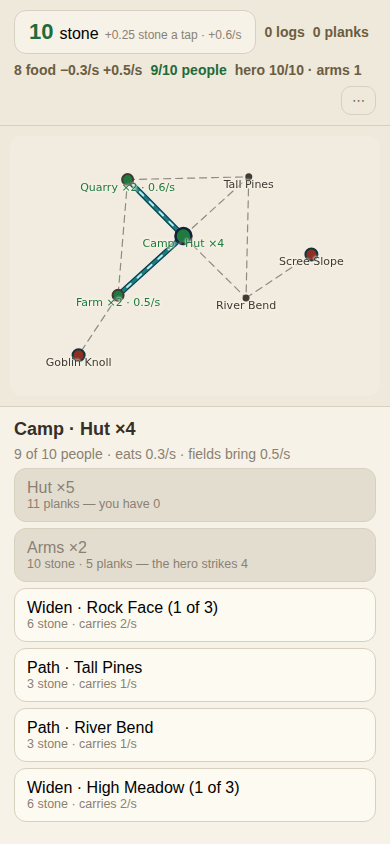
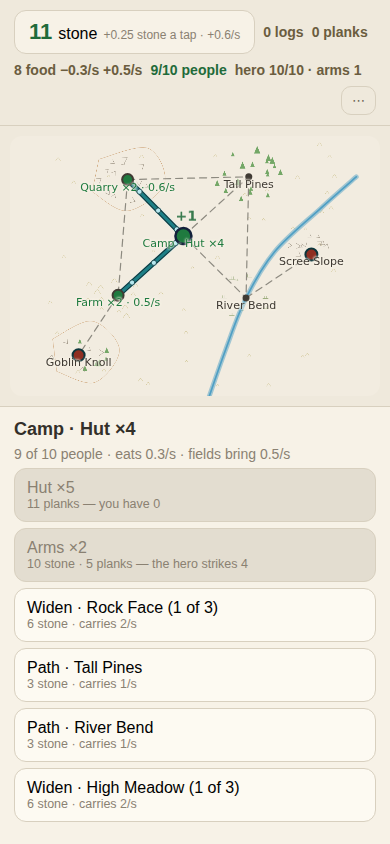
THE LOOK: the valley painted, carriers hauling, a +1 over the camp
Playtest points three, six and seven, one pass:

- ★ THE MAP BACKGROUND IS BACK — src/camp/scenery.ts paints the valley
  with the OLD map's own glyphs (markShapes, exported from terrain.ts:
  the parts shelf doing exactly what the anchor decision says). Trees
  at the pines, crag ticks at the rock faces, rushes at the bend, moor
  grass across the whole floor, two hand-laid height rings, and a LIVE
  river through River Bend - named for it before it was drawn. Baked
  once, blitted ever after, same perf discipline as before.
- ★ CARRIER DOTS haul along every carrying path (Line.carry): little
  porters spaced by load, walking on the same phase clock as the old
  dash - which STAYS in Board.svelte untouched, per the owner's
  keep-the-code instruction. The mana look is gone from the city;
  the code is not.
- ★ +1 POPS are back, floating over the camp: the pulse anchor falls
  back to the 'carry' dot when there is no pin. One a second, cleared
  on pan - the owner's old confetti rules still apply.

EVIDENCE, run and read:
- vitest 710 green (no engine changes - this pass is paint and probe)
- npm run play exit 0, two NEW checks with teeth: 447px of trees and
  1573px of river counted off the live palette, and the carriers'
  centre of mass must MOVE across 700ms (138.5 -> 137.1) - a buried
  crawl once stayed green for weeks because nothing checked motion
- ★ PROVEN RED, restored: decor unplugged -> trees AND river checks
[…]

diff --git a/src/camp/scenery.ts b/src/camp/scenery.ts
@@ -1,0 +1,112 @@
+// WHAT THE VALLEY LOOKS LIKE. Scenery for the city builder's one map —
+// the owner, on the first playtest of the pivot: *"i think our beautiful
+// map background must come back."*
+//
+// The parts shelf in action: the glyphs (trees, crags, moor grass, rushes)
+// are the OLD map's own, imported from terrain.ts — only the ground they
+// scatter on is new. Everything is baked once and blitted, same as before,
+// because five hundred marks a frame stutter on a phone.
+//
+// Nothing here knows the canvas or the game. It is geometry, seeded, so a
+// screenshot of a bug is a screenshot anyone can reproduce.
+import { markShapes, type Mark } from '../game/terrain';
+import type { Shape, Pt } from '../game/shapes';
+import type { Box } from '../game/layout';
+import { SITES } from './engine';
+
+/** The same seeded generator every static scatter in this repo uses. */
+function seeded(seed: number): () => number {
+  let a = seed >>> 0;
+  return () => {
+    a = (a + 0x6d2b79f5) >>> 0;
+    let t = Math.imul(a ^ (a >>> 15), 1 | a);
+    t = (t + Math.imul(t ^ (t >>> 7), 61 | t)) ^ t;
+    return ((t ^ (t >>> 14)) >>> 0) / 4294967296;
+  };
+}
+
+const pad = 60;
+const xs = SITES.map((s) => s.x);
+const ys = SITES.map((s) => s.y);
+export const VALLEY: Box = {
+  x: Math.min(...xs) - pad,
+  y: Math.min(...ys) - pad,
+  w: Math.max(...xs) - Math.min(...xs) + pad * 2,
+  h: Math.max(...ys) - Math.min(...ys) + pad * 2,
+};
+
+/** Each site's ground, for the scatter around it — what you see at the
+ *  pines is trees, exactly as the works you can raise there says. */
+const CLUSTERS: Array<{ at: number; g: Mark['g']; n: number; r: number }> = [
+  { at: 1, g: 'crag', n: 13, r: 30 },   // Rock Face
+  { at: 2, g: 'wood', n: 20, r: 36 },   // Tall Pines
+  { at: 3, g: 'bog', n: 8, r: 26 },     // River Bend's reeds
+  { at: 4, g: 'moor', n: 15, r: 32 },   // High Meadow
+  { at: 5, g: 'crag', n: 11, r: 28 },   // Scree Slope
+  { at: 6, g: 'wood', n: 8, r: 30 },    // Goblin Knoll's dark trees…
+  { at: 6, g: 'crag', n: 7, r: 26 },    // …over broken ground
+];
+
+/** ★ THE RIVER, through River Bend — the site was named for it before it
+ *  was drawn. A wide soft bed under a brighter thread, as ever. */
+const RIVER: Pt[] = [
+  { x: 236, y: VALLEY.y + VALLEY.h + 6 },
+  { x: 262, y: 372 },
+  { x: 292, y: 296 },
+  { x: 334, y: 228 },
+  { x: 402, y: 164 },
+  { x: VALLEY.x + VALLEY.w + 6, y: 118 },
+];
+
+function marks(): Mark[] {
+  const rand = seeded(0xc17b);
+  const out: Mark[] = [];
+  const site = (id: number): Pt => {
+    const s = SITES.find((x) => x.id === id)!;
+    return { x: s.x, y: s.y };
+  };
+  const clearOf = (x: number, y: number): boolean =>
+    SITES.every((s) => Math.hypot(s.x - x, s.y - y) > 16);
+  for (const c of CLUSTERS) {
+    const p = site(c.at);
+    for (let i = 0; i < c.n; i++) {
+      const ang = rand() * Math.PI * 2;
+      const d = 14 + rand() * c.r;
+      const x = p.x + Math.cos(ang) * d;
+      const y = p.y + Math.sin(ang) * d * 0.85;
+      if (!clearOf(x, y)) continue;
+      out.push({ x, y, g: c.g, r: 2.6 + rand() * 2.2, a: rand() * Math.PI });
+    }
+  }
+  // Ambient moor grass across the whole valley, thin, keeping the camp's
+  // clearing and every site's label legible.
+  for (let i = 0; i < 46; i++) {
+    const x = VALLEY.x + 14 + rand() * (VALLEY.w - 28);
+    const y = VALLEY.y + 14 + rand() * (VALLEY.h - 28);
+    if (!clearOf(x, y)) continue;
+    if (Math.hypot(x - 200, y - 205) < 44) continue;   // the clearing
+    out.push({ x, y, g: 'moor', r: 2 + rand() * 1.6, a: 0 });
+  }
+  return out;
+}
+
+/** Two soft height rings — the knoll is a knoll and the rock face stands
+ *  above the camp. Hand-laid; a whole relief grid would be theatre. */
+const RINGS: Shape[] = [
+  { s: 'path', ink: 'relief', w: 1, curve: true, close: true, alpha: 0.9, pts: [
+    { x: 8, y: 356 }, { x: 66, y: 330 }, { x: 106, y: 372 },
+    { x: 70, y: 420 }, { x: 14, y: 404 } ] },
+  { s: 'path', ink: 'relief', w: 1, curve: true, close: true, alpha: 0.9, pts: [
+    { x: 76, y: 92 }, { x: 148, y: 76 }, { x: 172, y: 128 },
+    { x: 118, y: 168 }, { x: 66, y: 140 } ] },
+];
+
+export const CAMP_SHAPES: Shape[] = [
+  { s: 'baked', key: 'valley', box: VALLEY, alpha: 0.85, shapes: [
+    ...RINGS,
+    ...marks().flatMap(markShapes),
+  ] },
+  // The river is cheap and important, so it stays live and crisp.
+  { s: 'path', pts: RIVER, ink: 'river', w: 7, curve: true, alpha: 0.5 },
+  { s: 'path', pts: RIVER, ink: 'river', w: 2.5, curve: true },
+];

diff --git a/src/ui/Board.svelte b/src/ui/Board.svelte
@@ -49,6 +49,10 @@
     /** ★ OVER ITS CAP: the load underlay turns amber — the choke the city
      *  design promises to DRAW, not just count. */
     choked?: boolean;
+    /** ★ CARRIER DOTS instead of the mana dash — the owner: *"maybe we
+     *  introduce the carrier dots which actually bring resources to camp."*
+     *  The dash code below stays; a line opts in. */
+    carry?: boolean;
     /** ★ THE BEND — the road's real course in world coordinates, first point at
      *  this line's `a` end. Absent off the chapter, where stops sit at solved
      *  rather than authored positions and a baked path would join two points
@@ -144,7 +148,8 @@
     // or a widen is running the income to zero anyway.
     const t = performance.now();
     if (t - lastPlusAt < 1000) return;
-    const you = dots.find((d) => d.you);
+    // The pin if there is one; the camp (kind 'carry') where there is not.
+    const you = dots.find((d) => d.you) ?? dots.find((d) => d.kind === 'carry');
     if (!you) return;
     const at = posOf.get(you.id);
     if (!at || plusses.length >= 4) return;
@@ -476,11 +481,27 @@
         // brown — so it stayed green. Order is the fix; the probe now samples
         // a pipe too.
         if (l.load > 0 && (l.dir ?? 0) !== 0) {
-          ctx.save();
-          ctx.lineDashOffset = -phase * (l.dir ?? 1);
-          paint(ctx, { s: 'path', pts: run, ink: 'flowing', curve: true,
-            w: 2, dash: [5, 9], alpha: 0.95 }, sx, sy, 1);
-          ctx.restore();
+          if (l.carry) {
+            // ★ THE CARRIERS: little porters walking the path with the
+            // goods, spaced by how hard the path works. Same phase clock
+            // as the dash, so they stop when nothing flows.
+            const a0 = run[0]!;
+            const b0 = run[run.length - 1]!;
+            const n = 2 + Math.round(2 * Math.min(1, l.load));
+            for (let i = 0; i < n; i++) {
+              const t0 = (phase * 0.06 * (l.dir ?? 1) + i / n) % 1;
+              const t = t0 < 0 ? t0 + 1 : t0;
+              paint(ctx, { s: 'disc', x: a0.x + (b0.x - a0.x) * t,
+                y: a0.y + (b0.y - a0.y) * t, r: 2.6, ink: 'flowing',
+                ring: 'casing', rw: 0.8, alpha: 0.95 }, sx, sy, 1);
+            }
+          } else {
+            ctx.save();
+            ctx.lineDashOffset = -phase * (l.dir ?? 1);
+            paint(ctx, { s: 'path', pts: run, ink: 'flowing', curve: true,
+              w: 2, dash: [5, 9], alpha: 0.95 }, sx, sy, 1);
+            ctx.restore();
+          }
         }
       } else {
         paint(ctx, made

diff --git a/src/ui/Camp.svelte b/src/ui/Camp.svelte
@@ -9,6 +9,7 @@
     priceLine, unlayable, unraisable, unassailable, heroHit, armsCost, hunger,
     SITE, GOBLINS, RATE, TAP_STONE, MAX_GAUGE, HERO_HP, type City } from '../camp/engine';
   import { load, save, wipe, exportRaw, importRaw, elapsedSince } from '../camp/store';
+  import { CAMP_SHAPES } from '../camp/scenery';
 
   let game = $state<City>(initial());
   let ready = $state(false);
@@ -30,6 +31,16 @@
    *  the log supply when the pile is dry. The header never overpromises. */
   const planksNow = $derived(
     game.logs > 0.05 ? f.planks : Math.min(f.planks, f.logs));
+
+  // ★ +1 POPS over the camp: one bump per whole stone landed, any source.
+  // The board itself throttles to one a second and clears them on a pan.
+  let pops = $state(0);
+  let lastWholeStone = 0;
+  $effect(() => {
+    const w = Math.floor(game.stone);
+    if (w > lastWholeStone) pops++;
+    lastWholeStone = w;
+  });
 
   const siteId = (n: number): string => `site:${n}`;
   const numOf = (id: string): number => Number(id.split(':')[1]);
@@ -92,6 +103,7 @@
           gauge,
           choked,
           dir: busy || choked ? (n > s.id ? -1 : 1) : 0,
+          carry: true,
         });
       }
     }
@@ -279,7 +291,8 @@
 
   {#if ready}
     <div class="map">
-      <Board {dots} {lines} {box} label="city" onTap={doTap} drag={false} />
+      <Board {dots} {lines} {box} label="city" onTap={doTap} drag={false}
+        decor={CAMP_SHAPES} pulse={pops} />
     </div>
     <section class="panel">
       {#if game.fight}

diff --git a/src/game/terrain.ts b/src/game/terrain.ts
@@ -107,7 +107,9 @@ export interface Terrain {
 /** One scenery mark as the shapes that draw it. Four grounds, four gestures —
  *  and every one is an ordinary `Shape`, so the board needs no special case and
  *  this file needs no canvas. */
-function markShapes(m: Mark): Shape[] {
+/** ★ EXPORTED for the city builder's scenery — the parts shelf in action:
+ *  same trees, same crags, same rushes, drawn around different ground. */
+export function markShapes(m: Mark): Shape[] {
   const w = 1.1;
   if (m.g === 'wood') {
     return [{ s: 'path', ink: m.g, fill: true, close: true, pts: [

diff --git a/docs/DECISIONS.md b/docs/DECISIONS.md
@@ -1837,3 +1837,4 @@ Entries above this line are long because the one-line rule did not exist yet.
 - 2026-08-08 — **SLICE 3: FOOD, FARMS, CAPTIVES** ("go go"). High Meadow (held 12) is now FARM ground — the first liberation is the food unlock. The wild feeds six free (WILD_FED); every settler past that eats 0.1/s from the larder. STARVING (empty larder, hunger past the fields) halts every works EXCEPT the farms — famines recover, never spiral — and settlers refuse to move in past the wild's table without bread banked. Liberations free 2 CAPTIVES who arrive instantly and hungry (Noobtown's actual spine, verified against the source). Bug found by the tests: hand-typed site adjacency was one-way (camp never listed the meadow back) — neighbouring is now symmetrized at module init, same fix the old map used. Save v4.
 - 2026-08-08 — **THE TEN-POINT PLAYTEST, first half shipped same day.** Fixed now: (1) THE FIELDS EAT FIRST — staffing fills farms whole before anything else; the owner built farms in a famine and they didn't help because idle quarry jobs were diluting the farm's hands. (2) No works before a path reaches the ground ("weird that i can build something before there's a path"). (3) Prices in the material that makes sense — lumber camp costs LOGS, hut planks, mill stone+logs; the tap follows the tapped site (pines chop logs by hand = the bootstrap). (4) Held ground keeps its NAME; the danger is a red mark + "dangerous — goblins, N strong" in the panel. (5) Selection is half again the size. (6) The camp panel prices the hunger next to the fields' bring — starving is explained where you look. QUEUED as their own sessions, owner's order kept on record: the map background returns; CARRIER DOTS hauling resources along paths replace the mana-dash crawl (mana crawl code KEPT on disk, owner's instruction); a reason to mesh sites to each other, not just the camp (real commodity routing: logs travel to the mill); +1 pops; assigning people to buildings by hand.
 - 2026-08-08 — **★★★ "overall this feels like a game now… as opposed to everything we had before."** The owner, after the ten-point-playtest fixes. Recorded as the anchor: the city builder IS the game — town, paths, chokes, hero, goblins, food. And the owner's corollary sets the strategy for everything on disk: *"we can add the previously developed stuff as things on top."* The retired systems are a parts shelf, not a graveyard — the scene machinery (gauges/verbs/rules) is a richer fight or event engine when wanted; the terrain painting returns in the look session; the mana network is a possible late-game layer; dice stay dead unless asked for. Build on the game that works; never pivot off it again without this note in hand.
+- 2026-08-08 — **THE LOOK PASS** (playtest points: background, carriers, pops). src/camp/scenery.ts paints the valley from the OLD map's own exported glyphs (markShapes — the parts shelf working as decreed): tree scatter at the pines, crag ticks at the rock faces, rushes by the bend, a live river through River Bend, two hand-laid height rings. CARRIER DOTS haul along carrying paths (Line.carry) instead of the mana dash — the dash branch stays in Board untouched, per the owner's keep-the-code instruction. +1 pops anchor to the camp when there is no pin (one a second, cleared on pan — old rules). The probe now counts trees and river off the live palette AND asserts the carriers' centre of mass MOVES across 700ms — a buried crawl once stayed green for weeks because nothing checked motion.

diff --git a/docs/NEXT.md b/docs/NEXT.md
@@ -1069,11 +1069,11 @@ liberation fights, Arms ×n from the town's own stores, territory = fights won.
 priced on the header, STARVING halts all but the farms, and every
 liberation frees two hungry captives.
 
+**Shipped since:** THE LOOK — the valley painted from the old glyphs,
+carrier dots hauling (dash code kept), +1 pops over the camp.
+
 **Next, one per session — the owner's ten-point playtest drives the order:**
-1. ★ THE LOOK: the old map background returns (terrain decor into Camp's
-   Board), CARRIER DOTS hauling along paths instead of the mana dash
-   (keep the dash code on disk — owner's instruction), +1 pops on gains.
-2. ★ MESH ROUTING: logs travel to the MILL, not the abstract depot — a
+1. ★ MESH ROUTING: logs travel to the MILL, not the abstract depot — a
    real reason to connect site to site instead of star-to-camp.
 3. Assign people to buildings by hand (the owner asked; auto stays the
    default so nothing babysits).
